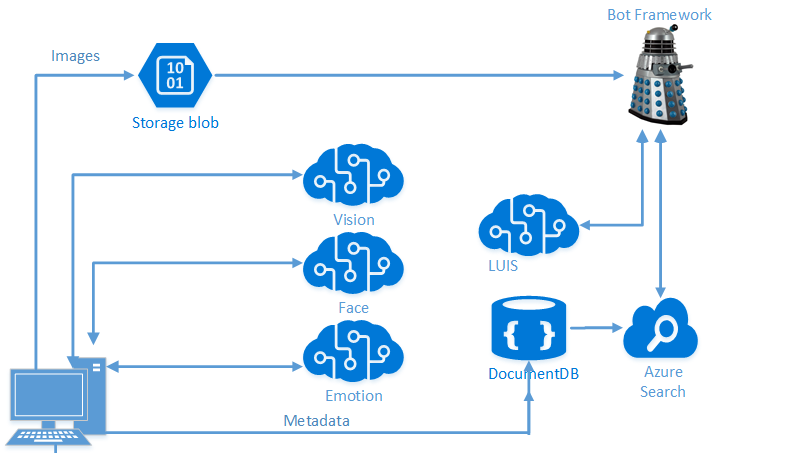
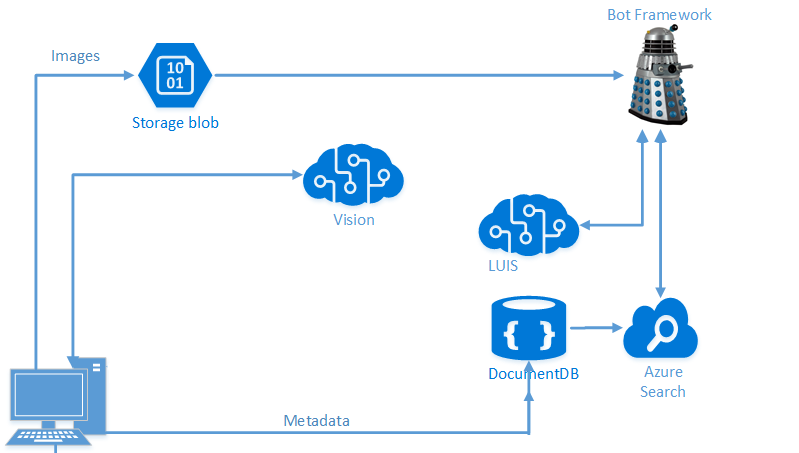
updating architecture diagrams

Changed region(s): [[0.1202, 0.4945, 0.5106, 0.8962], [0.0901, 0.5872, 0.1202, 0.7726]]

diff --git a/lab01.x-luis/0_README.md b/lab01.x-luis/0_README.md
@@ -31,7 +31,7 @@ We're going to build an end-to-end scenario that allows you to pull in your own 
 
 ## Architecture
 
-In `lab01.1-computer_vision`, we built a simple C# application that allows you to ingest pictures from your local drive, then invoke the [Computer Vision](https://www.microsoft.com/cognitive-services/en-us/computer-vision-api) Cognitive Service to grab tags and a description for those images:
+In `lab01.1-computer_vision`, we built a simple C# application that allows you to ingest pictures from your local drive, then invoke the [Computer Vision](https://www.microsoft.com/cognitive-services/en-us/computer-vision-api) Cognitive Service to grab tags and a description for those images.
 
 Once we had this data, we processed it and stored all the information needed in [DocumentDB](https://azure.microsoft.com/en-us/services/documentdb/), our [NoSQL](https://en.wikipedia.org/wiki/NoSQL) [PaaS](https://azure.microsoft.com/en-us/overview/what-is-paas/) offering.
 
